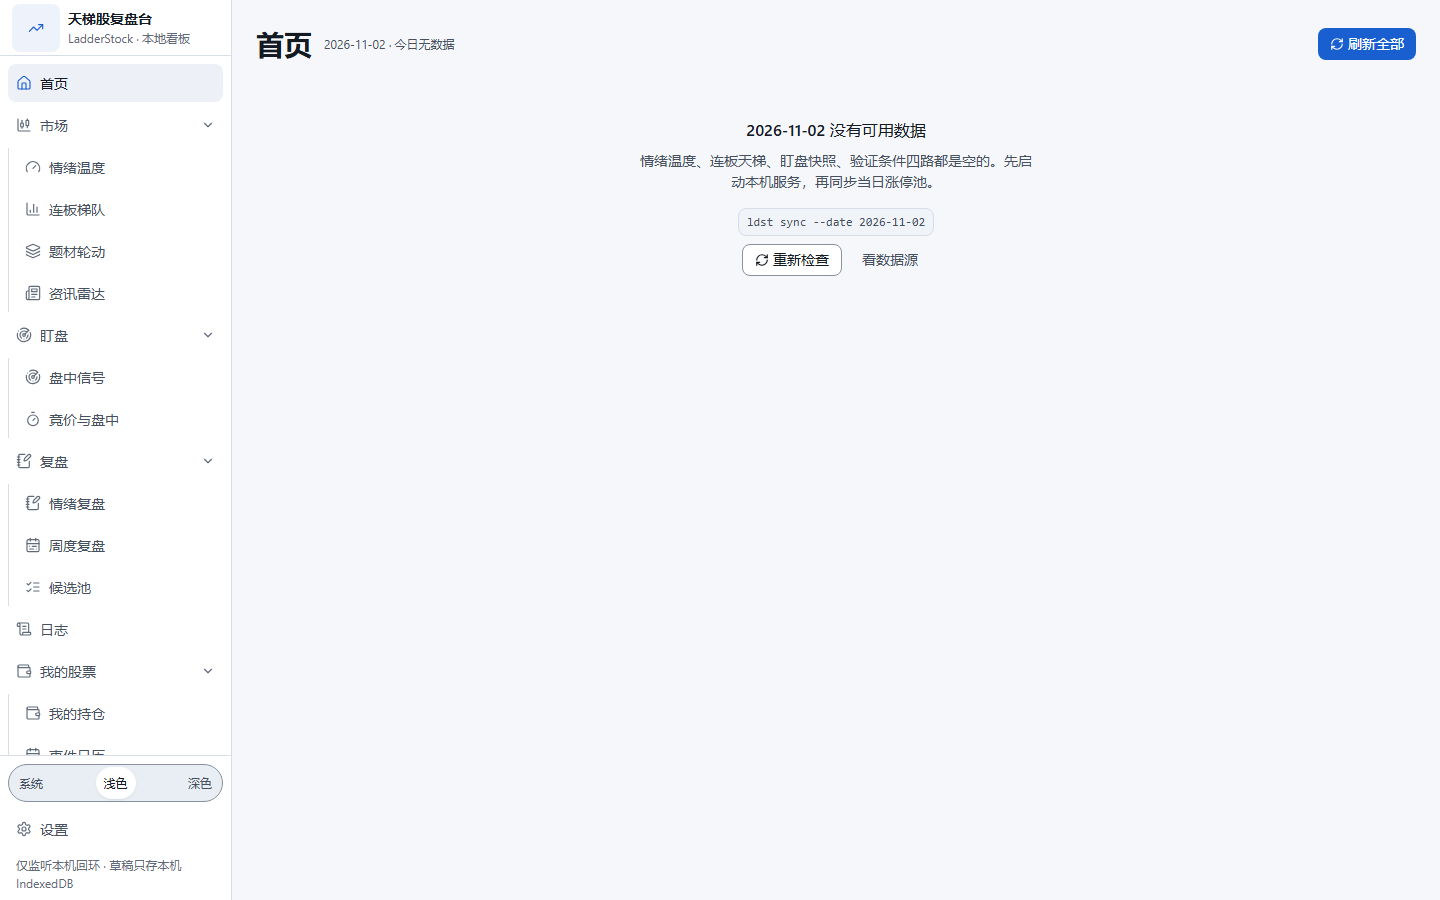
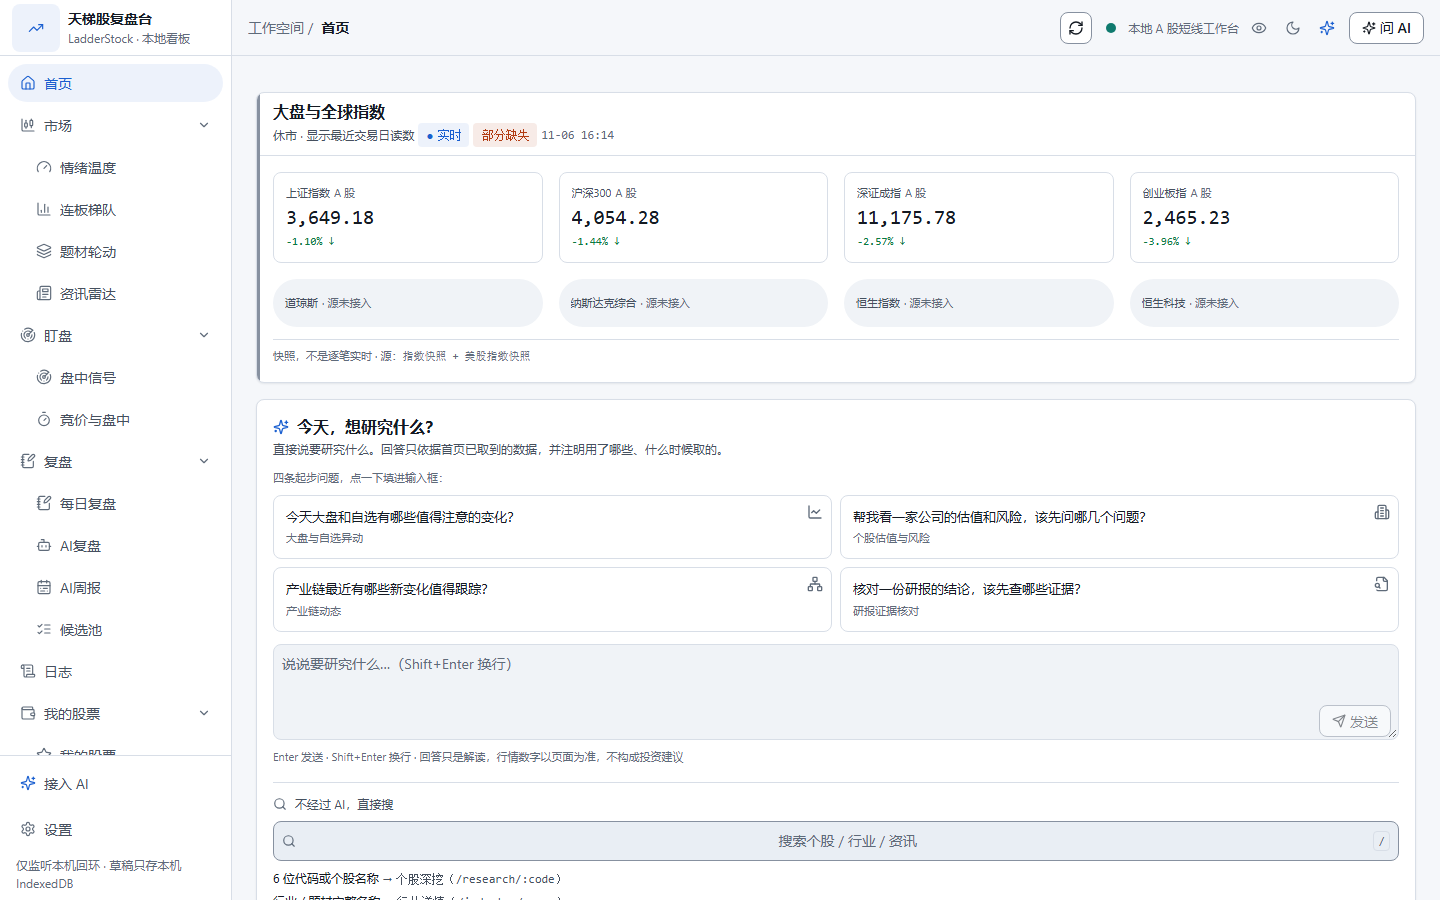
QUOT-479: 首页 A/B 块版式重构——指数区主次分层 + 起步问题建议卡(只改视觉)
A 块(HomeIndexStrip):A 股四格主卡(min-h 72px 三行),海外四格降为
「名称 · 源未接入」胶囊行(28px,拿到点位则升级为正常 cell);八格始终
全部渲染,缺数不出 0、不补格、不回落;脚注收敛单行 11px;移除 warn 状态条。

B 块(HomeResearchChat):四条起步问题改 2×2 建议卡(副 label + 右上角
图标,aria-label 钉死问题原文保住既有测试);输入区下沉发送按钮进框内。

只改视觉:数据口径、api/radar.ts 解析、SourceBadges 标签表、块 C-F 全未动。
8 格 API payload 逐格对照一致(DATA UNCHANGED: true);build + 820 tests 全绿。

diff --git a/frontend/src/screens/home/HomeResearchChat.tsx b/frontend/src/screens/home/HomeResearchChat.tsx
@@ -7,7 +7,18 @@ import {
   type KeyboardEvent as ReactKeyboardEvent,
 } from 'react'
 import { Link } from 'react-router-dom'
-import { Loader2, Send, Sparkles, Square, Trash2 } from 'lucide-react'
+import {
+  Building2,
+  ChartLine,
+  FileSearch,
+  Loader2,
+  Network,
+  Send,
+  Sparkles,
+  Square,
+  Trash2,
+  type LucideIcon,
+} from 'lucide-react'
 
 import { askHomeAssistant } from '../../api/research'
 import { cn } from '../../lib/cn'
@@ -50,11 +61,16 @@ interface ChatTurn {
   stopped?: boolean
 }
 
-const SUGGESTIONS = [
-  '今天大盘和自选有哪些值得注意的变化？',
-  '帮我看一家公司的估值和风险，该先问哪几个问题？',
-  '产业链最近有哪些新变化值得跟踪？',
-  '核对一份研报的结论，该先查哪些证据？',
+/**
+ * 起步问题 → 建议卡（QUOT-479 定稿：2×2，只改视觉，问题文本与填入行为不变）。
+ * 卡的可访问名必须钉死为问题原文：卡内副 label 属于卡，但测试与读屏都按
+ * `getByRole('button', { name: question })` 找它，不加 aria-label 会被副文本污染。
+ */
+const SUGGESTIONS: { text: string; label: string; Icon: LucideIcon }[] = [
+  { text: '今天大盘和自选有哪些值得注意的变化？', label: '大盘与自选异动', Icon: ChartLine },
+  { text: '帮我看一家公司的估值和风险，该先问哪几个问题？', label: '个股估值与风险', Icon: Building2 },
+  { text: '产业链最近有哪些新变化值得跟踪？', label: '产业链动态', Icon: Network },
+  { text: '核对一份研报的结论，该先查哪些证据？', label: '研报证据核对', Icon: FileSearch },
 ]
 
 function SourceList({ sources }: { sources: HomeContextSource[] }) {
@@ -231,19 +247,25 @@ export function HomeResearchChat({ assistant, date, className }: HomeResearchCha
       >
         {!hasTurns && !pending && !failure && (
           <div className="flex flex-col gap-2">
-            <p className="text-caption text-text-muted">
-              四条起步问题，点一下填进输入框：
-            </p>
-            <div className="grid grid-cols-1 gap-1 sm:grid-cols-2">
-              {SUGGESTIONS.map((suggestion) => (
-                <Button
-                  key={suggestion}
-                  variant="secondary"
-                  className="h-auto min-h-control justify-start whitespace-normal text-left text-caption"
-                  onClick={() => pickSuggestion(suggestion)}
+            <p className="text-11px text-text-muted">四条起步问题，点一下填进输入框：</p>
+            <div className="grid grid-cols-1 gap-2 sm:grid-cols-2">
+              {SUGGESTIONS.map(({ text, label, Icon }) => (
+                <button
+                  key={text}
+                  type="button"
+                  aria-label={text}
+                  onClick={() => pickSuggestion(text)}
+                  className="group relative flex min-h-16 items-start rounded-lg border border-border bg-surface p-3 text-left transition-colors duration-fast hover:border-accent hover:shadow-card"
                 >
-                  {suggestion}
-                </Button>
+                  <span className="flex min-w-0 flex-col gap-1 pr-5">
+                    <span className="whitespace-normal text-13px leading-tight text-text">{text}</span>
+                    <span className="text-11px text-text-muted">{label}</span>
+                  </span>
+                  <Icon
+                    className="absolute right-2 top-2 size-4 shrink-0 text-text-muted transition-colors duration-fast group-hover:text-accent"
+                    aria-hidden="true"
+                  />
+                </button>
               ))}
             </div>
           </div>
@@ -297,7 +319,8 @@ export function HomeResearchChat({ assistant, date, className }: HomeResearchCha
       </div>
 
       <div className="flex flex-col gap-1">
-        <div className="flex items-end gap-2">
+        {/* 发送/停止入框右下（QUOT-479）：外层 relative，输入框底部让出按钮高度 */}
+        <div className="relative">
           <Textarea
             ref={inputRef}
             rows={2}
@@ -307,12 +330,12 @@ export function HomeResearchChat({ assistant, date, className }: HomeResearchCha
             onKeyDown={onKeyDown}
             aria-label="向研究助手提问"
             placeholder="说说要研究什么…（Shift+Enter 换行）"
-            className="min-w-0 flex-1 resize-none"
+            className="min-w-0 resize-none pb-9 !border-border !bg-surface-2 focus-visible:!border-border"
           />
           {pending ? (
             <Button
               variant="secondary"
-              className="shrink-0"
+              className="absolute bottom-2 right-2 h-8 shrink-0"
               onClick={stop}
               leadingIcon={<Square className="size-3.5" aria-hidden="true" />}
             >
@@ -321,7 +344,7 @@ export function HomeResearchChat({ assistant, date, className }: HomeResearchCha
           ) : (
             <Button
               variant="secondary"
-              className="shrink-0"
+              className="absolute bottom-2 right-2 h-8 shrink-0"
               onClick={() => void ask(draft)}
               disabled={draft.trim() === ''}
               leadingIcon={<Send className="size-3.5" aria-hidden="true" />}
@@ -330,7 +353,7 @@ export function HomeResearchChat({ assistant, date, className }: HomeResearchCha
             </Button>
           )}
         </div>
-        <p className="text-caption text-text-muted">
+        <p className="text-11px text-text-muted">
           Enter 发送 · Shift+Enter 换行 · 回答只是解读，行情数字以页面为准，不构成投资建议
         </p>
       </div>

diff --git a/frontend/src/screens/home/HomeIndexStrip.tsx b/frontend/src/screens/home/HomeIndexStrip.tsx
@@ -17,8 +17,9 @@ import type { BlockView } from './useHomeSource'
  * 一屏只回答「大盘在哪」：八格由后端白名单写死（4 个 A 股：上证 / 沪深300 / 深证成指 /
  * 创业板指；2 个美股：道琼斯 / 纳斯达克综合；2 个港股：恒生指数 / 恒生科技），
  * 前端不排序、不补格、不指定代码——`index_list` 是按涨幅排序的榜，不含这些指数。
- * 版式是 4 列 × 2 行的算术结论（§1.2 / §12-L02）：`text-section`（20px）的点位
- * `12,641.86` 需要 132px，1440 档单排 8 格只有 128px，放不下；8 格在 4 列下自然回流成两行。
+ * 版式主次分层（QUOT-479，只改视觉）：A 股四格是主卡（`min-h-index-cell` 72px 三行），
+ * 海外四格降为「名称 · 源未接入」胶囊行（28px 一行），拿到点位才升级为正常 cell——
+ * 八格始终全部渲染，缺数不出 0、不补格、不回落。
  *
  * 三条缺数口径（§2.2 / §2.3）：
  * - 点位取不到 = `—`，**不显示 0**；第三行落到「源未接入」或「点位未取到」二者之一，不留白；
@@ -36,26 +37,39 @@ function IndexCellView({ cell }: { cell: IndexCell }) {
   const missing = cell.price === null
   // 「源未接入」与「点位未取到」是两种缺席：整格不可用（`available=false`）才是前者
   const missingNote = !cell.available ? '源未接入' : '点位未取到'
+  // A 股恒为主卡（哪怕某格缺数也走三行，口径不变）；海外行只有取到点位才升级为正常 cell
+  const primary = label === 'A 股' || !missing
+  if (!primary) {
+    return (
+      <div
+        className="flex h-7 items-center gap-1 rounded-full bg-surface-2 px-3 text-11px text-text-muted"
+        title={`未接入时显示「${MISSING}」，不补 0。${cell.reason ?? ''}`}
+      >
+        <span className="min-w-0 truncate text-text-secondary">{cell.name ?? MISSING}</span>
+        <span className="shrink-0">· {missingNote}</span>
+      </div>
+    )
+  }
   return (
-    <div className="flex min-h-metric flex-col justify-between gap-1 rounded border border-border bg-surface p-3">
-      <div className="flex items-center gap-1 text-caption text-text-secondary">
+    <div className="flex min-h-index-cell flex-col justify-between gap-0.5 rounded border border-border bg-surface p-3">
+      <div className="flex items-center gap-1 text-11px text-text-secondary">
         <span className="min-w-0 truncate" title={cell.name ?? MISSING}>
           {cell.name ?? MISSING}
         </span>
         {/* 后缀是身份说明不是状态，用行内标签不用 Badge（§2.1）；取不到就不显示这一行 */}
         {label && <span className="shrink-0 text-text-muted">{label}</span>}
       </div>
-      <div className="truncate text-section font-semibold ldst-num text-text" title={missing ? missingNote : undefined}>
+      <div className="truncate text-section ldst-num text-text" title={missing ? missingNote : undefined}>
         {formatAmount(cell.price)}
       </div>
       {missing ? (
-        <div className="truncate text-caption text-text-muted" title={cell.reason ?? undefined}>
+        <div className="truncate text-11px text-text-muted" title={cell.reason ?? undefined}>
           {missingNote}
         </div>
       ) : (
         <div className="flex items-center gap-1">
-          <SignedNumber {...change} className="text-caption" />
-          {change.missing && <span className="text-caption text-text-muted">涨跌幅未取到</span>}
+          <SignedNumber {...change} className="text-11px" />
+          {change.missing && <span className="text-11px text-text-muted">涨跌幅未取到</span>}
         </div>
       )}
     </div>
@@ -90,7 +104,7 @@ export function HomeIndexStrip({ view, session, pollSeconds, pollTicks = 0, poll
   return (
     <SectionCard
       title="大盘与全球指数"
-      tone={cells.length > 0 && missingCells.length > 0 ? 'warn' : 'neutral'}
+      tone="neutral"
       subtitle={
         <span className="flex flex-wrap items-center gap-1">
           <span data-poll-ticks={pollTicks} data-poll-failures={pollFailures}>
@@ -117,7 +131,7 @@ export function HomeIndexStrip({ view, session, pollSeconds, pollTicks = 0, poll
       {view.state === 'loading' && (
         <div className="grid grid-cols-2 gap-4 desk:grid-cols-4" aria-hidden="true">
           {Array.from({ length: 8 }, (_, index) => (
-            <div key={index} className="min-h-metric rounded border border-border bg-surface-2" />
+            <div key={index} className="min-h-index-cell rounded border border-border bg-surface-2" />
           ))}
         </div>
       )}
@@ -169,9 +183,9 @@ export function HomeIndexStrip({ view, session, pollSeconds, pollTicks = 0, poll
         <EmptyState compact title="本机服务未连接" description="指数条不落缓存，断连时不显示上一次的读数。" />
       )}
 
-      <p className="mt-3 border-t border-border pt-2 text-caption leading-body text-text-muted">
-        {payload?.footnote ?? '指数为行情快照，不是逐笔实时'}；港股 / 美股指数源未接入时该格显示「{MISSING}」与原因，不补 0。
-        源：<span className="ldst-num">{(payload?.datasets ?? ['index_quote']).map(quoteSourceLabel).join(' + ')}</span>
+      <p className="mt-3 border-t border-border pt-2 text-11px leading-body text-text-muted">
+        {payload?.footnote ?? '指数为行情快照，不是逐笔实时'} · 源：
+        <span className="ldst-num">{(payload?.datasets ?? ['index_quote']).map(quoteSourceLabel).join(' + ')}</span>
       </p>
     </SectionCard>
   )

diff --git a/frontend/tailwind.config.ts b/frontend/tailwind.config.ts
@@ -73,12 +73,19 @@ export default {
         sans: cssVar(tokens.typography.sans.cssVar),
         mono: cssVar(tokens.typography.mono.cssVar),
       },
-      fontSize: Object.fromEntries(
-        Object.entries(tokens.typography.size).map(([key, size]) => [
-          key,
-          [cssVar(size.cssVar), `${size.lineHeight}`],
-        ]),
-      ),
+      fontSize: {
+        ...Object.fromEntries(
+          Object.entries(tokens.typography.size).map(([key, size]) => [
+            key,
+            [cssVar(size.cssVar), `${size.lineHeight}`],
+          ]),
+        ),
+        /* 结构字号（非视觉令牌）：QUOT-479 定稿「20px 点位 / 13px 卡内正文 / 11px 脚注」三档，
+           13px 落在 caption(12) 与 body(14) 之间、11px 比 caption 更小，tokens.json 无此两档；
+           验收标准允许新刻度直接进本配置。 */
+        '13px': ['13px', '1.5'],
+        '11px': ['11px', '1.5'],
+      },
       fontWeight: {
         regular: `${tokens.typography.weight.regular.value}`,
         medium: `${tokens.typography.weight.medium.value}`,
@@ -143,6 +150,9 @@ export default {
         textarea: cssVar(tokens.layout.textareaMin.cssVar),
         /* 结构尺寸（非视觉令牌）：月历格最小高，保证一天两枚胶囊可见 */
         'calendar-cell': '76px',
+        /* QUOT-479：指数主卡从 96px 降到 72px（4 列 × 2 行更透气）；
+           与 §4.5 的 min-h-metric(96) 是两回事，故不并档。 */
+        'index-cell': '72px',
       },
       minWidth: {
         icon: cssVar(tokens.layout.iconButton.cssVar),
